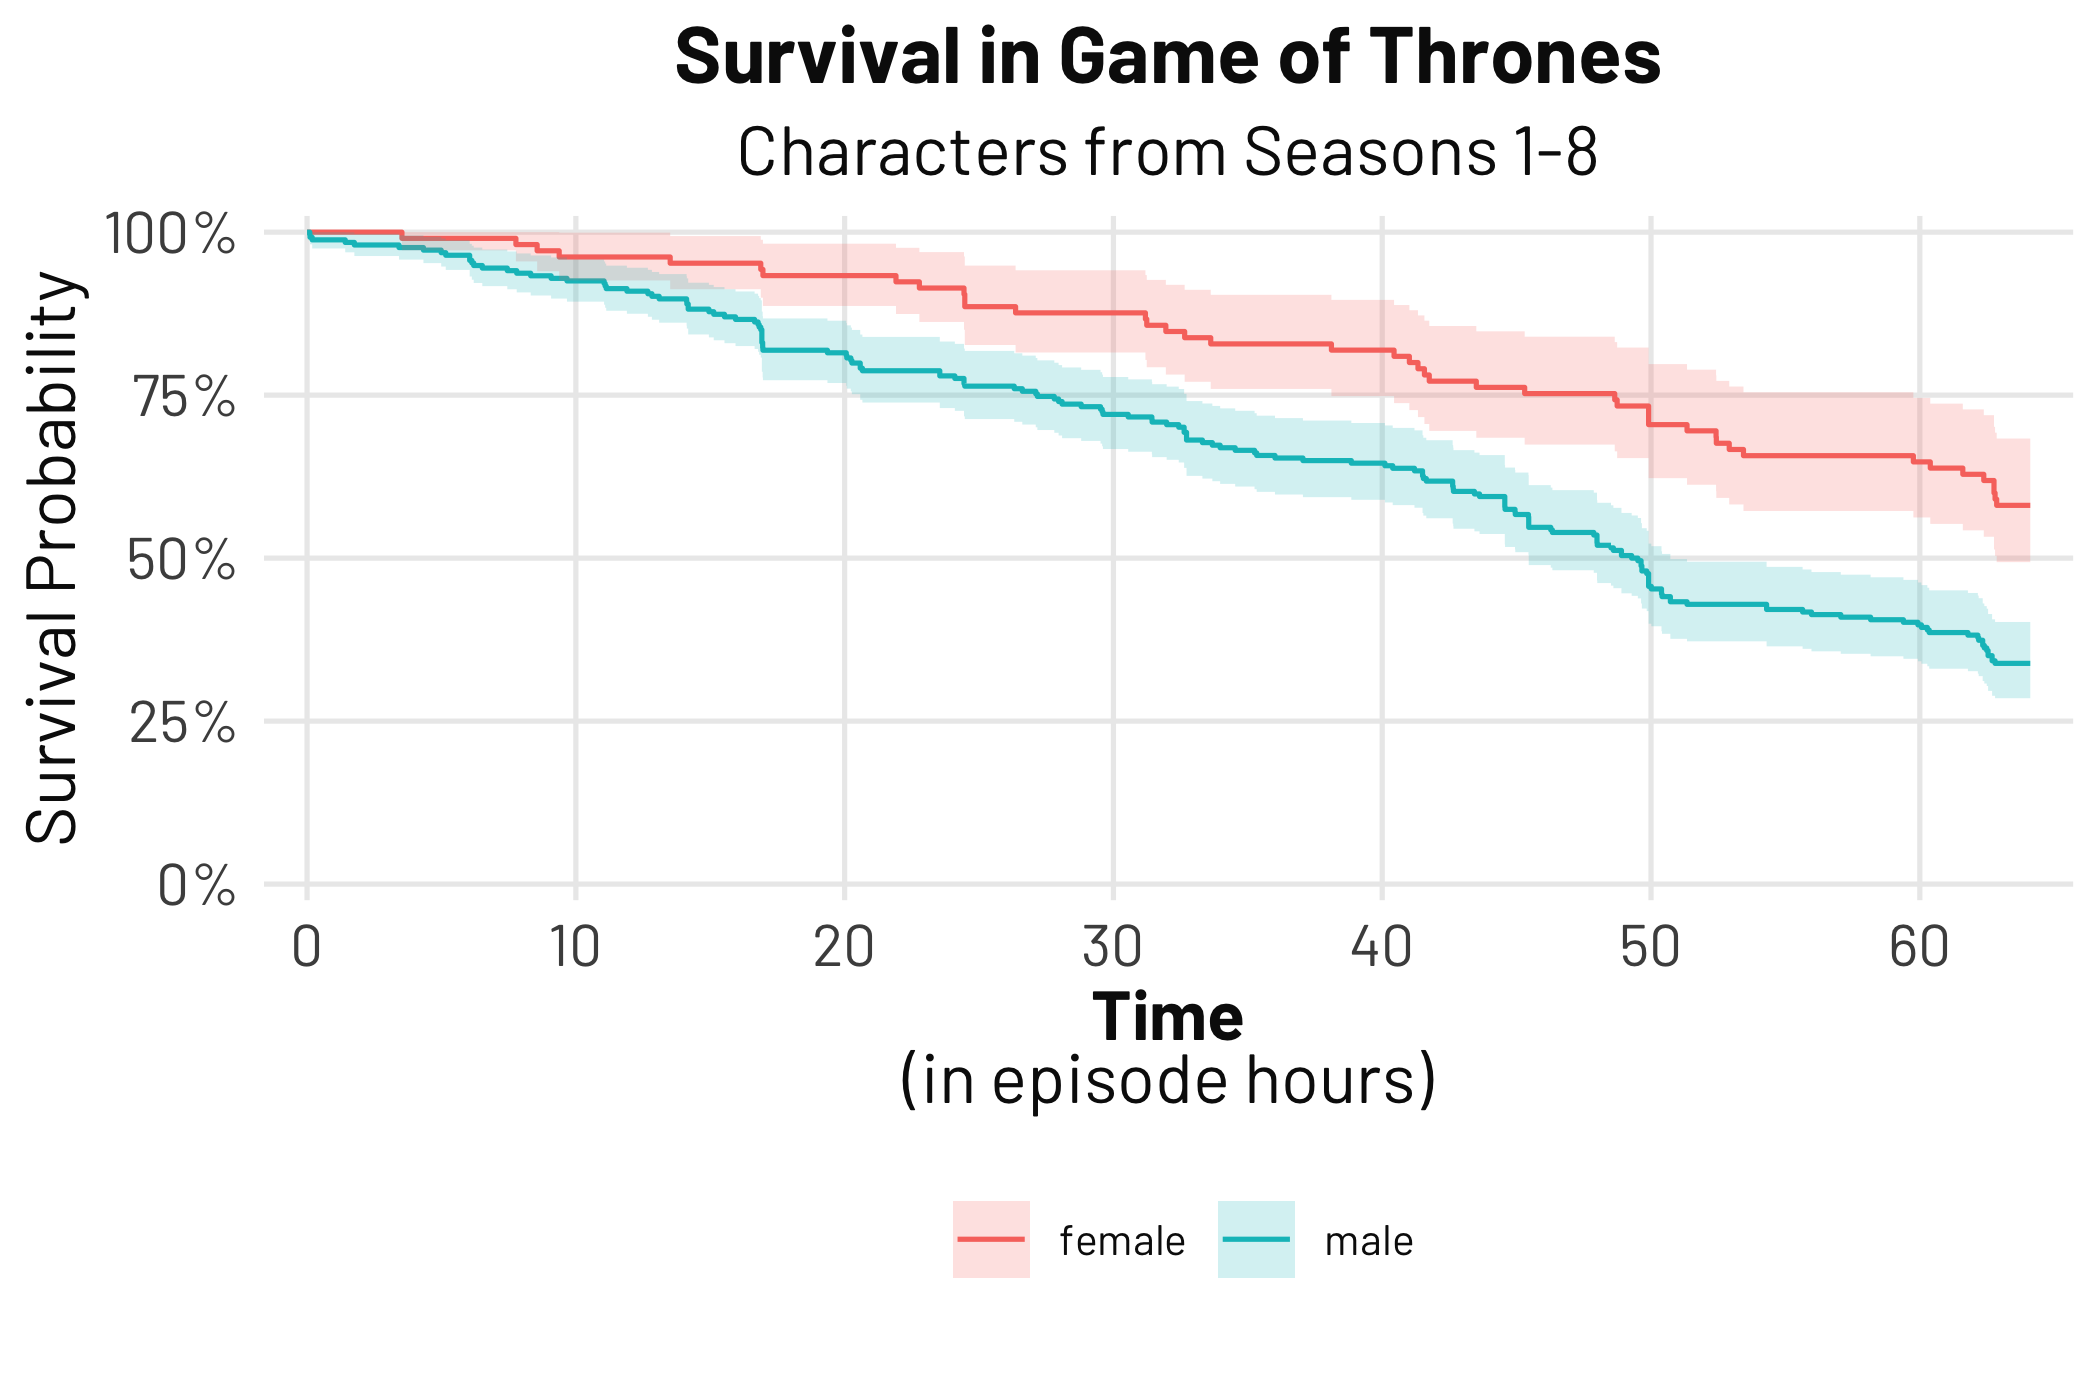
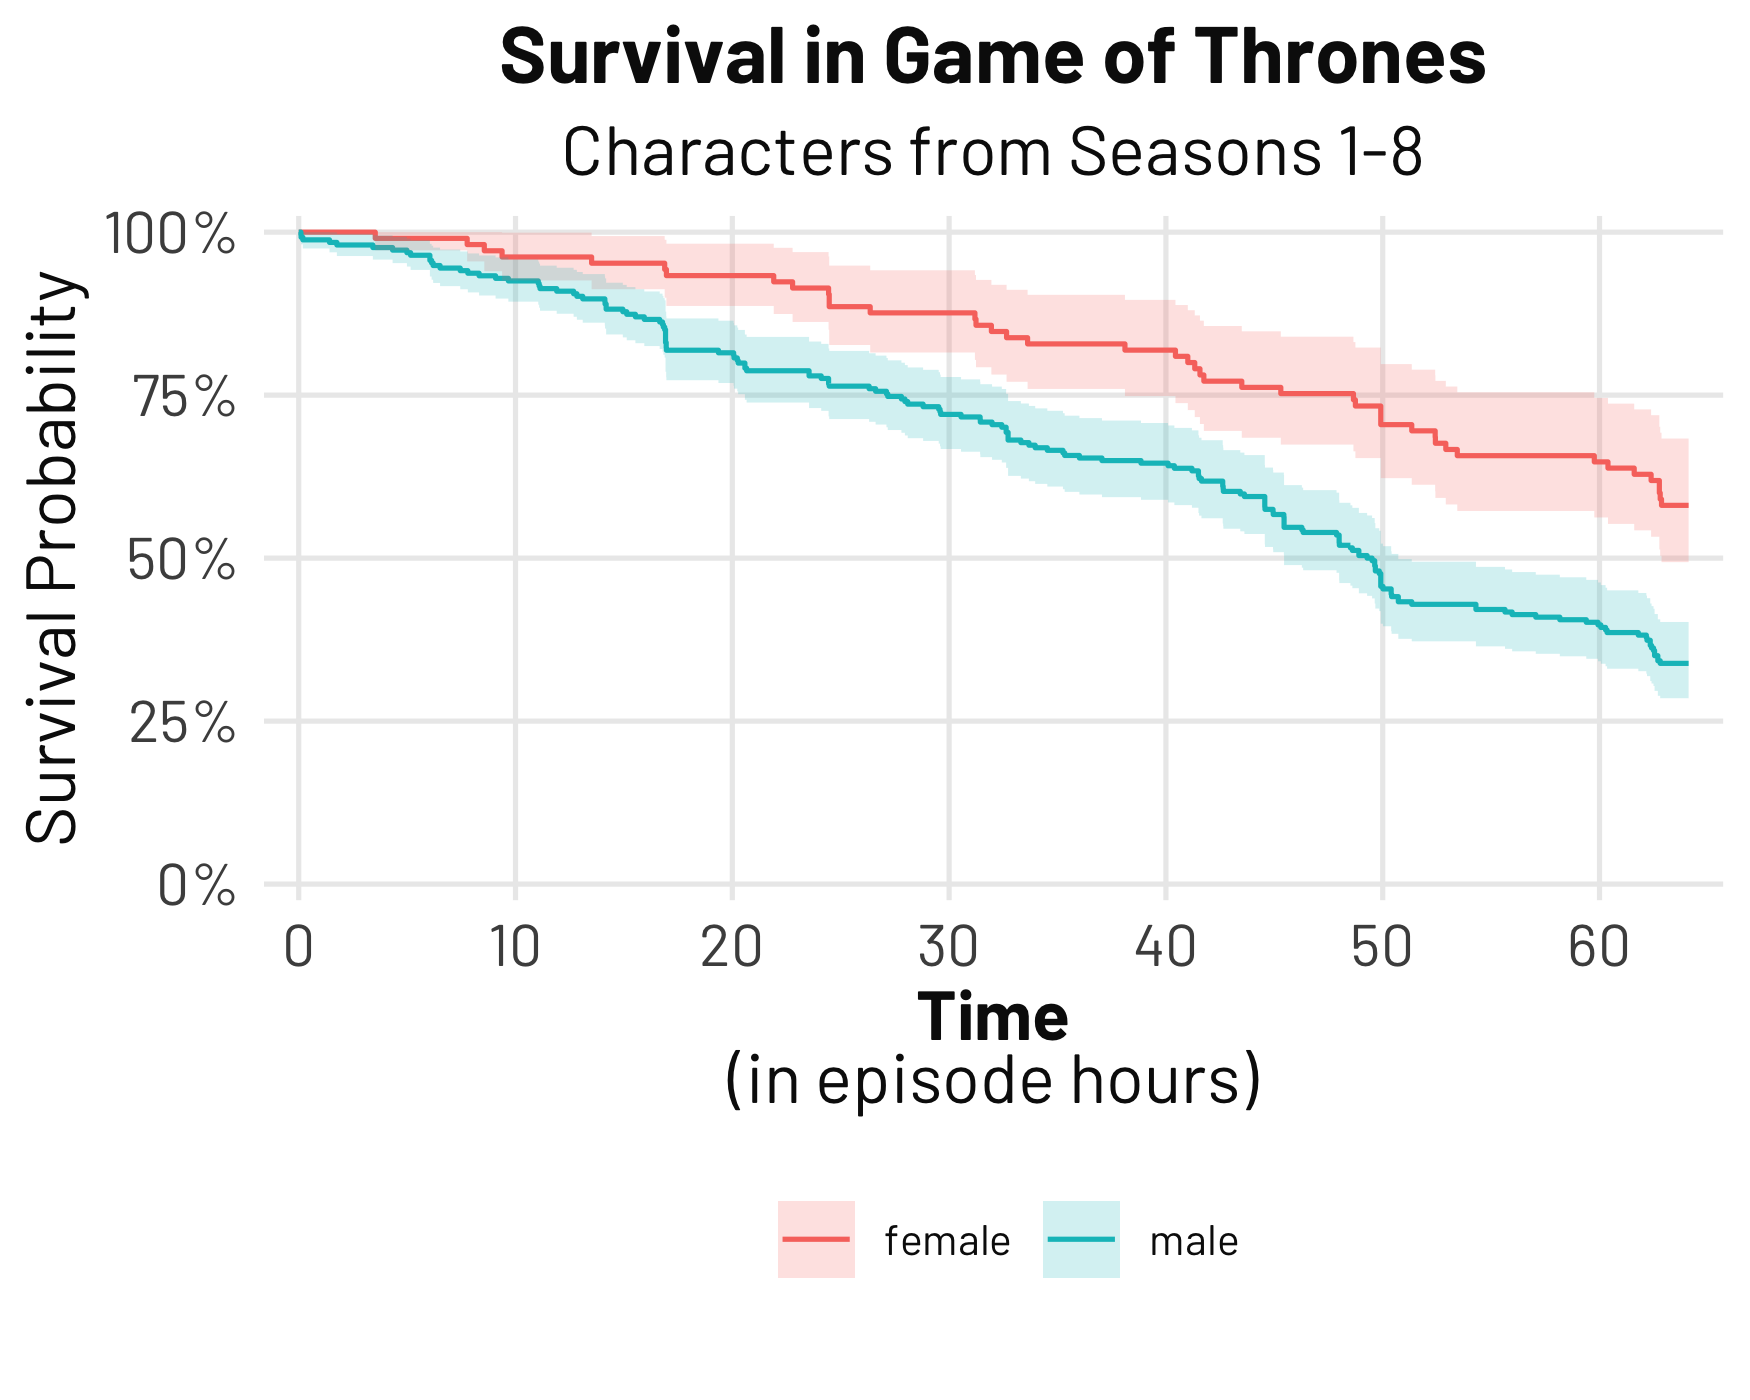
update figure sizing and alignment

diff --git a/README.md b/README.md
@@ -61,11 +61,15 @@ New data are posted every Monday morning. You can use these data to create a vis
 
 ---
 
+<p align="center" width="100%">
 <img src = "2024/otherdata6_income_internet/rural_income_broadband.png" alt = "Scatterplot showing US county broadband internet access rates by median household income" width = "1080"/>
+</p>
 
 ---
 
-<img src = "2024/otherdata9_gotmortality/survival_curve.png" alt = "Survival curve showing mortality in Games of Thrones Seasons 1-8" width = "1080"/>
+<p align="center" width="100%">
+<img src = "2024/otherdata9_gotmortality/survival_curve.png" alt = "Survival curve showing mortality in Games of Thrones Seasons 1-8" width = "600"/>
+</p>
 
 ---
 
